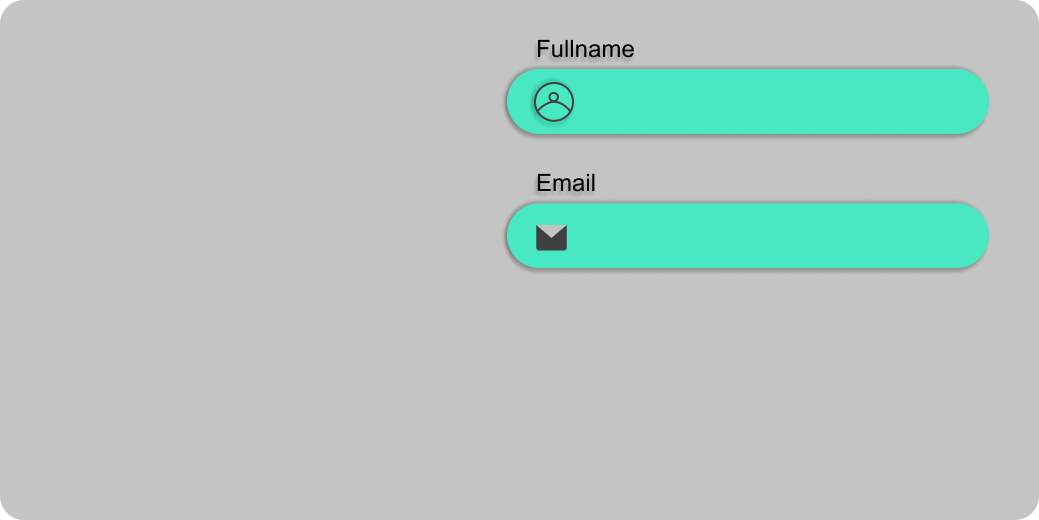
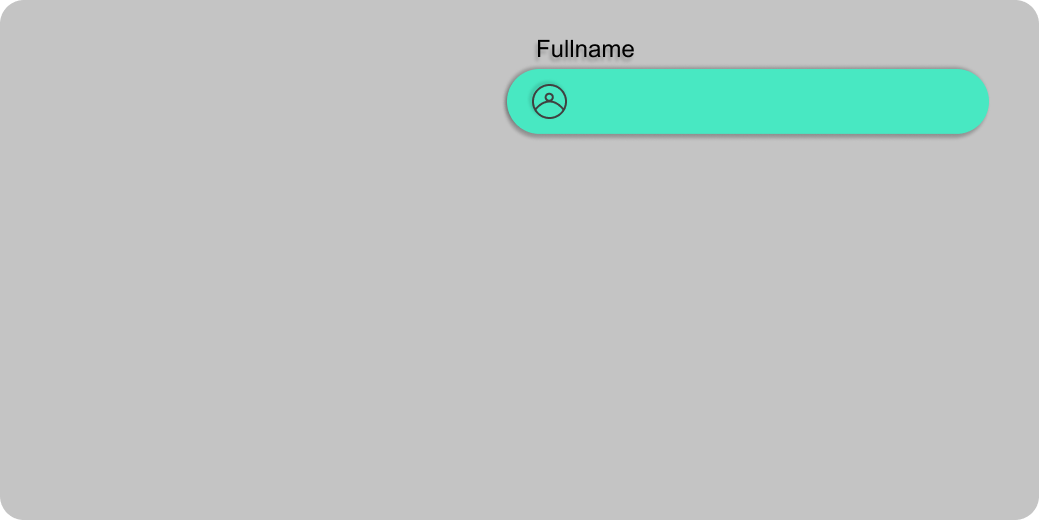
Export handled

Changed region(s): [[0.462, 0.3385, 0.9548, 0.5231], [0.4928, 0.1538, 0.5544, 0.2462]]

diff --git a/Edit_Profile.py b/Edit_Profile.py
@@ -1,3 +1,5 @@
+#!/usr/bin/python
+# -*- coding: utf-8 -*-
 from tkinter import *
 import sqlite3
 import login_page
@@ -10,11 +12,11 @@ def edit_profile():
     global bg, back, save, e_f, user_image_box
 
     edit_p = Toplevel()
-    edit_p.geometry("1280x720+0+0")
-    edit_p.title("G-Pass-Edit_Profile")
+    edit_p.geometry('1280x720+0+0')
+    edit_p.title('G-Pass-Edit_Profile')
     edit_p.resizable(False, False)
 
-    bg = PhotoImage(file="Images/Edit Profile Background.png")
+    bg = PhotoImage(file='Images/Edit Profile Background.png')
     Label(edit_p, image=bg).place(x=-1, y=-1)
 
     def back_dash():
@@ -22,19 +24,21 @@ def edit_profile():
         import Dashboard
         Dashboard.dashboard()
 
-    back = PhotoImage(file="Images/Back Buttton.png")
-    Button(edit_p,
-           image=back,
-           bg="#565050",
-           bd=0,
-           activebackground="#565050",
-           command=back_dash
-           ).place(x=53, y=47)
+    back = PhotoImage(file='Images/Back Buttton.png')
+
+    Button(
+        edit_p,
+        image=back,
+        bg='#565050',
+        bd=0,
+        activebackground='#565050',
+        command=back_dash,
+        ).place(x=53, y=47)
 
     edit_frame = LabelFrame(edit_p, width=1039, height=520, bd=0)
     edit_frame.place(x=121, y=137)
 
-    e_f = PhotoImage(file="Images/Edit Profile Frame.png")
+    e_f = PhotoImage(file='Images/Edit Profile Frame.png')
     Label(edit_frame, image=e_f, bg='#565050').place(x=-1, y=-1)
 
     db = sqlite3.connect('Database.db')
@@ -43,59 +47,55 @@ def edit_profile():
     all = d.fetchall()
 
     f_name = StringVar()
-    email = StringVar()
     user_img = ''
 
     for i in all:
         if account_global.who_is_logged_in == i[1]:
             f_name.set(i[0])
-            email.set(i[1])
 
             if i[3] != '':
                 user_img = i[3]
             else:
                 user_img = account_global.def_selection
 
-    Entry(edit_frame,
-          text=f_name,
-          font=("Arial", 20),
-          bd=0,
-          width=25,
-          bg="#48E8C2", ).place(x=592, y=83)
+    Entry(
+        edit_frame,
+        text=f_name,
+        font=('Arial', 20),
+        bd=0,
+        width=25,
+        bg='#48E8C2',
+        ).place(x=592, y=83)
 
-    Entry(edit_frame,
-          text=email,
-          font=("Arial", 20),
-          bd=0,
-          width=25,
-          bg="#48E8C2", ).place(x=592, y=222)
+
 
     def ed_img():
         global pp_img, new_image
 
-        comp_sel = filedialog.askopenfilename(
-            initialdir='C:\\Users\\aayus\\OneDrive\\School\\Python\\TkinterLab\\BasicStart\\pic',
-            title='Select a image',
-            filetypes=(('PNG', '*.png'), ('JPG', '*.jpg'), ('All Files', '*.*')))
+        comp_sel = \
+            filedialog.askopenfilename(initialdir='C:\\Users\\aayus\\OneDrive\\School\\Python\\TkinterLab\\BasicStart\\pic'
+                , title='Select a image', filetypes=(('PNG', '*.png'),
+                ('JPG', '*.jpg'), ('All Files', '*.*')))
 
         account_global.selected = comp_sel
         pp_img = Image.open(comp_sel)
         fixed_size = pp_img.resize((380, 316), Image.ANTIALIAS)
         new_image = ImageTk.PhotoImage(fixed_size)
-        Label(edit_frame, image=new_image, bg='#C4C4C4').place(x=65, y=53)
+        Label(edit_frame, image=new_image, bg='#C4C4C4').place(x=65,
+                y=53)
 
     def save_all():
         for i in all:
             if account_global.who_is_logged_in == i[1]:
                 d.execute(""" UPDATE Signups SET 
                             fullname = :fn,
-                            email = :em,
                             image=:im
-                            WHERE OID = :oide""", {'fn': f_name.get(),
-                                                   'em': email.get(),
-                                                   'im': account_global.selected,
-                                                   'oide': i[-1]}
-                          )
+                            WHERE OID = :oide""",
+                          {
+                    'fn': f_name.get(),
+                    'im': account_global.selected,
+                    'oide': i[-1],
+                    })
                 db.commit()
                 edit_p.destroy()
                 import Dashboard
@@ -106,21 +106,27 @@ def edit_profile():
     new_image = ImageTk.PhotoImage(fixed_size)
     Label(edit_frame, image=new_image, bg='#C4C4C4').place(x=65, y=53)
 
-    edit_image = PhotoImage(file="Images/Edit Image.png")
-    Button(edit_frame,
-           image=edit_image,
-           bg="#C4C4C4",
-           bd=0,
-           activebackground="#C4C4C4", command=ed_img
-           ).place(x=212, y=403)
+    edit_image = PhotoImage(file='Images/Edit Image.png')
 
-    save = PhotoImage(file="Images/Save Button.png")
-    Button(edit_p,
-           image=save,
-           bg="#565050",
-           bd=0,
-           activebackground="#565050", command=save_all
-           ).place(x=1151, y=47)
+    Button(
+        edit_frame,
+        image=edit_image,
+        bg='#C4C4C4',
+        bd=0,
+        activebackground='#C4C4C4',
+        command=ed_img,
+        ).place(x=212, y=403)
+
+    save = PhotoImage(file='Images/Save Button.png')
+
+    Button(
+        edit_p,
+        image=save,
+        bg='#565050',
+        bd=0,
+        activebackground='#565050',
+        command=save_all,
+        ).place(x=1151, y=47)
 
     mainloop()
 
